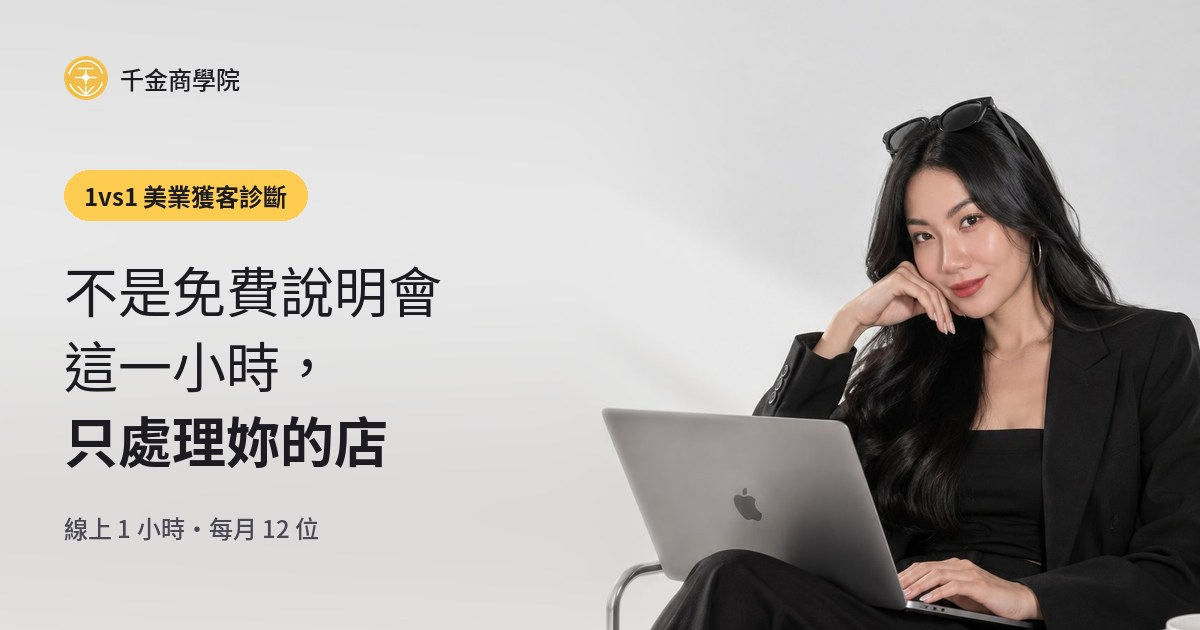
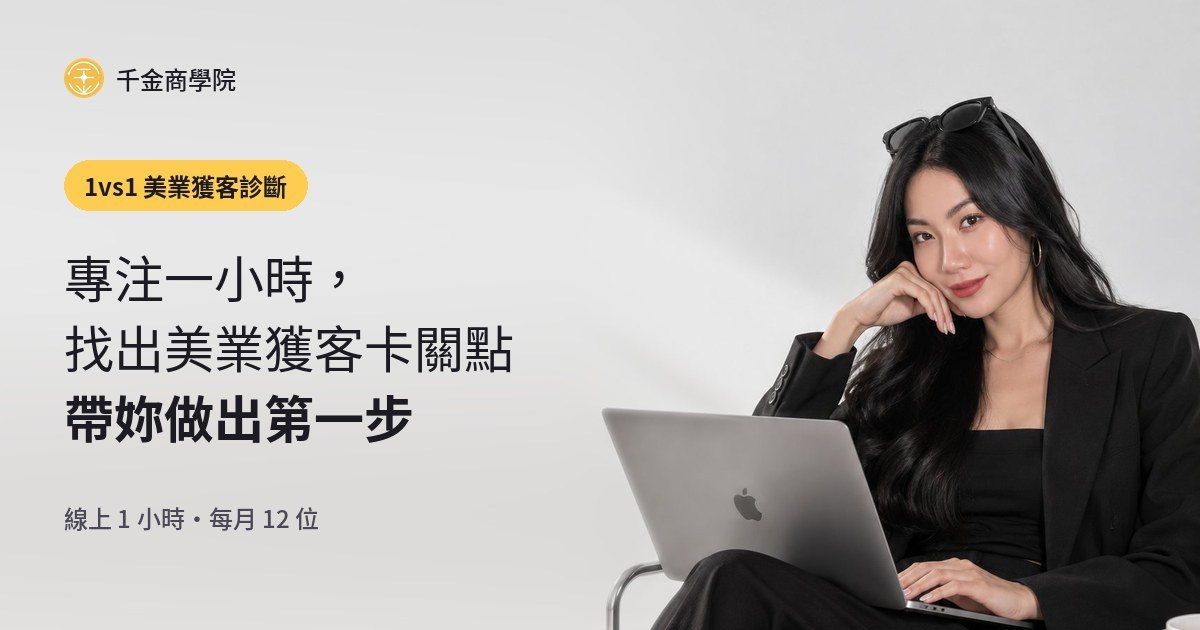
封面標題改為「專注一小時，找出美業獲客卡關點，帶妳做出第一步」，同步更新副標與分享圖
Claude-Session: https://claude.ai/code/session_01JQe2HFqrc7swKTiSVJJYrJ

diff --git a/index.html b/index.html
@@ -5,10 +5,10 @@
 <link rel="icon" type="image/png" href="favicon.png">
 <meta name="viewport" content="width=device-width, initial-scale=1">
 <title>1vs1 美業獲客診斷｜千金商學院</title>
-<meta name="description" content="不是免費說明會，線上 1 小時，找出妳的店卡在獲客、轉單還是回流，當場教妳方法，一起做出第一步">
+<meta name="description" content="專注一小時，找出美業獲客卡關點，帶妳做出第一步｜千金商學院 1vs1 美業獲客診斷，線上 1 小時">
 <meta property="og:title" content="1vs1 美業獲客診斷｜千金商學院">
-<meta property="og:description" content="不是免費說明會，這一小時，只處理妳的店">
-<meta property="og:image" content="https://1v1.saviliu.com/og.jpg?v=2">
+<meta property="og:description" content="專注一小時，找出美業獲客卡關點，帶妳做出第一步">
+<meta property="og:image" content="https://1v1.saviliu.com/og.jpg?v=3">
 <meta property="og:image:width" content="1200">
 <meta property="og:image:height" content="630">
 <meta property="og:url" content="https://1v1.saviliu.com/">
@@ -38,8 +38,8 @@ summary::-webkit-details-marker{display:none}
 <div style="flex: 1 1 auto; width: 100%; max-width: 1160px; margin: 0 auto; padding: clamp(16px, 4vw, 48px) 24px clamp(48px, 6vw, 96px); box-sizing: border-box; display: flex; align-items: center">
 <div style="max-width: 540px; display: flex; flex-direction: column; gap: 26px">
 <span style="align-self: flex-start; font-size: 14px; font-weight: 700; color: #1c1b22; background: #ffcc52; border-radius: 999px; padding: 7px 16px">1vs1 美業獲客診斷</span>
-<h1 style="margin: 0; font-size: clamp(34px, 4.4vw, 58px); line-height: 1.3; font-weight: 400; color: #1c1b22">不是免費說明會<br/>這一小時，<br/><span style="font-weight: 700">只處理妳的店</span></h1>
-<p style="margin: 0; font-size: clamp(16px, 1.4vw, 18px); line-height: 1.8; color: #4a4955; max-width: 440px">找出妳的店卡在獲客、轉單還是回流，當場教妳方法，一起做出第一步</p>
+<h1 style="margin: 0; font-size: clamp(34px, 4.4vw, 58px); line-height: 1.3; font-weight: 400; color: #1c1b22">專注一小時，<br/>找出美業獲客卡關點<br/><span style="font-weight: 700">帶妳做出第一步</span></h1>
+<p style="margin: 0; font-size: clamp(16px, 1.4vw, 18px); line-height: 1.8; color: #4a4955; max-width: 440px">獲客、轉單還是回流，我們一起看清楚，當場教妳方法</p>
 <div style="display: flex; align-items: center; gap: 20px; flex-wrap: wrap">
 <span style="font-size: 14px; color: #4a4955">線上 1 小時・每月只開 12 個名額</span>
 </div>
